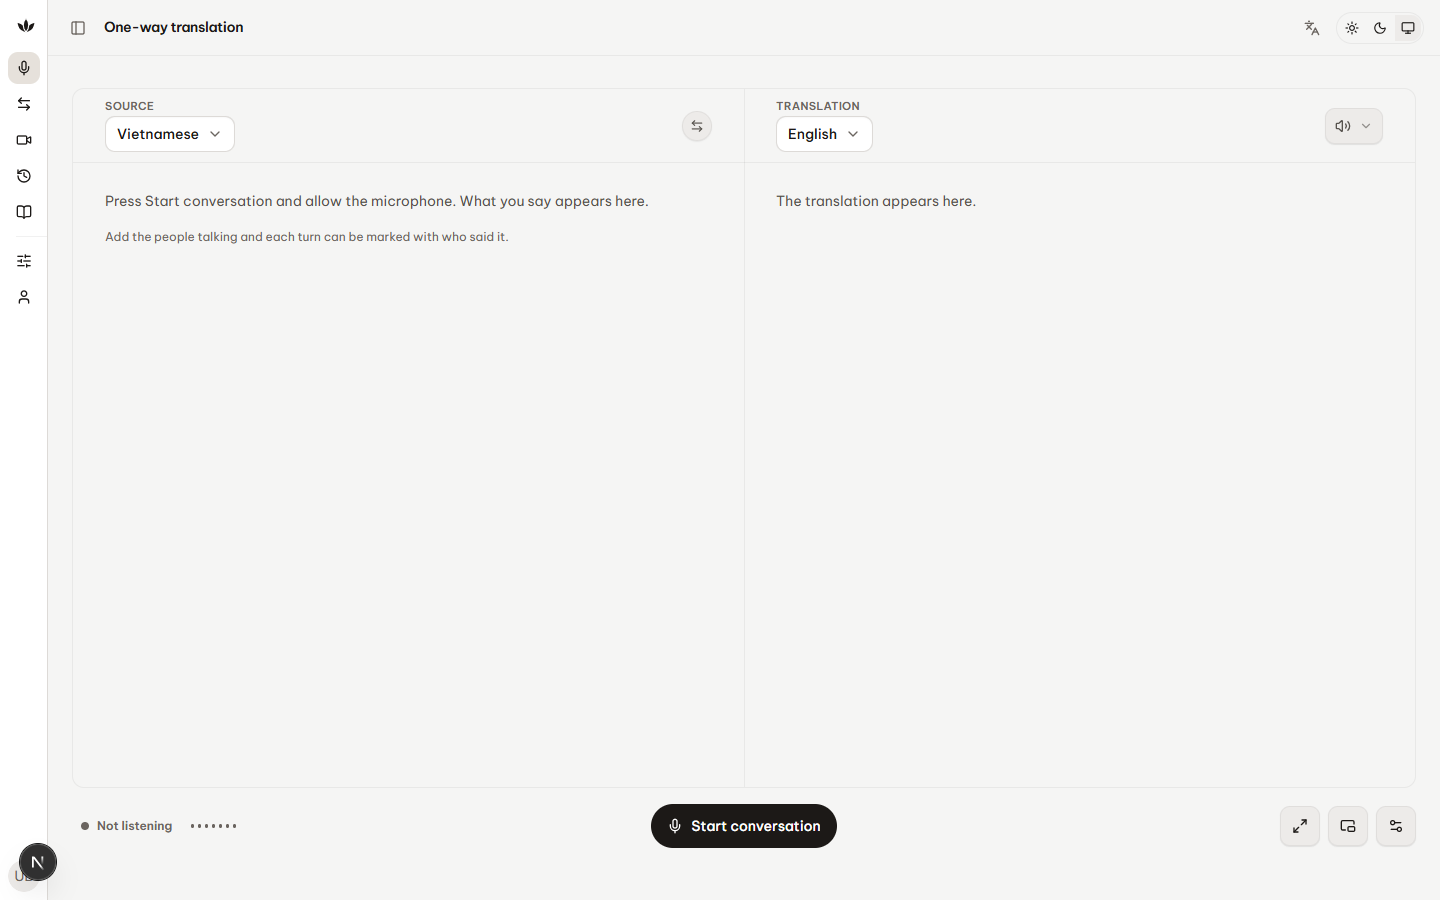
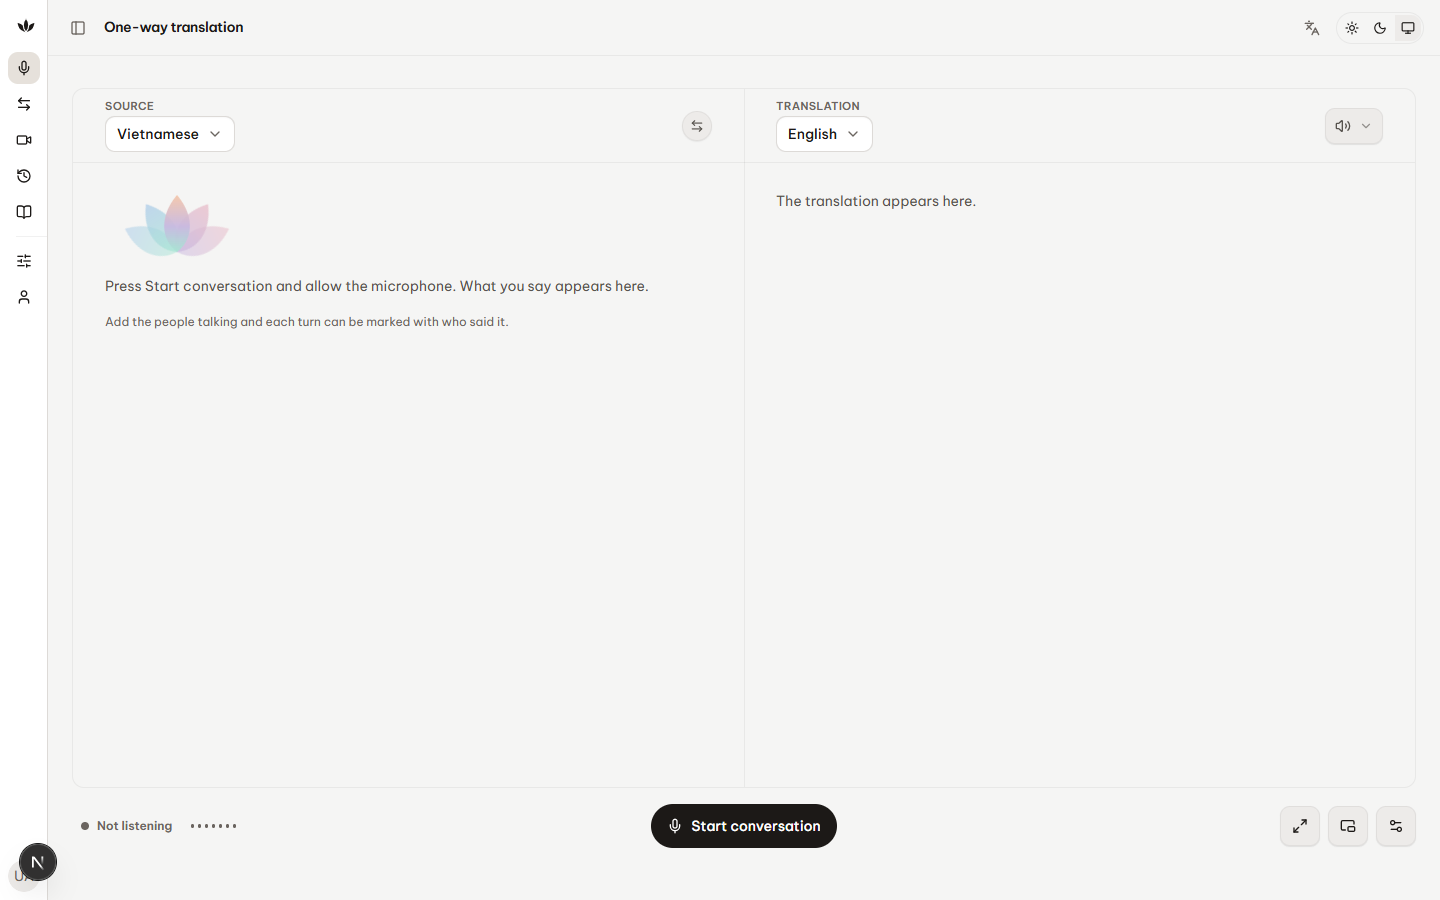
feat(web): open the lotus above the first step on the translate screen
The landing illustration, above the empty source pane's first-step
sentence, hidden below sm where the stacked panes are too short.
The Dawn rule and the state inventory are updated to match.

Changed region(s): [[0.0625, 0.3111, 0.4375, 0.3733], [0.0625, 0.2178, 0.4375, 0.28]]

diff --git a/apps/web/src/components/translate/conversation-transcript.spec.tsx b/apps/web/src/components/translate/conversation-transcript.spec.tsx
@@ -273,6 +273,28 @@ describe('ConversationTranscript as one side of a split', () => {
     expect(dimmed, 'the live translation line is dimmed').toEqual([]);
   });
 
+  it('draws the lotus above the first step, on the source pane only', () => {
+    // The one brand moment inside the app: the landing illustration, opening once, above
+    // the sentence and never behind it (a dawn value is 1.3-1.7:1 on stone, so it can
+    // never be what text is read against). Decorative, so hidden from assistive tech.
+    render({ turns: [], liveTurns: [], side: 'source', running: false });
+    const lotus = container.querySelector('[data-slot="lotus-illustration"]');
+    expect(lotus).not.toBeNull();
+    expect(lotus?.getAttribute('aria-hidden')).toBe('true');
+    // Hidden below `sm`, where the panes stack and each is too short to hold it: the pane
+    // scrolls to its newest content and the top of the lotus was cut off at 375px.
+    expect(lotus?.getAttribute('class')).toContain('max-sm:hidden');
+    const sentence = [...container.querySelectorAll('p')].find((p) =>
+      p.textContent?.includes('Start conversation'),
+    );
+    expect(sentence?.contains(lotus as Node)).toBe(false);
+
+    act(() => root.unmount());
+    root = createRoot(container);
+    render({ turns: [], liveTurns: [], side: 'target', running: false });
+    expect(container.querySelector('[data-slot="lotus-illustration"]')).toBeNull();
+  });
+
   it('tells a first-time user the first step on the source pane', () => {
     // The empty pane is the first thing a new user meets after sign-in. It names the
     // one control to press and the permission they will be asked for, instead of

diff --git a/apps/web/src/components/translate/conversation-transcript.tsx b/apps/web/src/components/translate/conversation-transcript.tsx
@@ -30,6 +30,7 @@ import { SpeakerLabel } from '@/components/translate/speaker-label';
 import { TranscriptSourceLine } from '@/components/translate/transcript-source-line';
 import { TurnLanguage } from '@/components/translate/turn-language-tag';
 import { MorphingText } from '@/components/translate/morphing-text';
+import { LotusIllustration } from '@/components/marketing/lotus-illustration';
 import { flipFromLiveLine } from '@/components/translate/flip-from-live-line';
 import {
   LiveLineHandoffContext,
@@ -273,6 +274,15 @@ export function ConversationTranscript({
           // explanation, and in `split` the two are separated by a gap or by half
           // the screen.
           <div className="flex flex-col gap-4 px-8 py-7">
+            {/* The brand's one moment inside the app: the landing's lotus, opening once, above
+                the first step. Above and never behind the sentence — a dawn value is 1.3-1.7:1
+                on stone, so it is never what text is read against. Source pane only: the
+                target pane says its own sentence and stays plain. */}
+            {side !== 'target' ? (
+              <LotusIllustration
+                className={cn('w-36 max-sm:hidden', side === 'both' && 'mx-auto')}
+              />
+            ) : null}
             <p className={cn('text-prose text-body', side === 'both' && 'text-center')}>
               {side === 'source'
                 ? t('web.translate.panelSourceEmpty')

diff --git a/docs/design-guidelines.md b/docs/design-guidelines.md
@@ -108,7 +108,9 @@ Two consequences follow from an accent that is the colour of text:
 | `mint`     | `#A7E5D3` |
 
 `dawn` in `tokens.ts`. **Decorative only**: the lotus mark's centre petal, the landing
-illustration, the surfaces tiles' band. They measure 1.44, 1.69 and 1.30:1 on stone, so
+illustration, the surfaces tiles' band, and the same illustration above the first step in
+the translate screen's empty source pane (above the sentence, never behind it; hidden below
+`sm`, where the stacked panes are too short to hold it). They measure 1.44, 1.69 and 1.30:1 on stone, so
 a dawn value is **never behind text, never on a control, and never carries a state**.
 It is not a palette key, and the contrast table never sees it. The illustration's two
 extra stops, sky `#A8C8E8` and rose `#E8B8C4`, are local to the lotus mark data and the
@@ -878,6 +880,7 @@ dictionary, which is the argument for keeping that number at zero.
 | conference lobby on a phone                            | `app/(app)/conference/[roomId]/components/pre-join-panel.tsx:76` — tighter padding and gap below `lg` so Join now is on the first screen                                                                      |
 | `/glossary` list failed to load                        | `glossary/glossary-list-panel.tsx:68` — `role="alert"` plus Try again, wired to `use-glossaries.ts:88` `retry`                                                                                                |
 | `/glossary` list empty                                 | `glossary/glossary-list-panel.tsx:79` — icon, bold title, one sentence, the same shape as History                                                                                                             |
+| `/translate` empty source pane, brand moment           | `translate/conversation-transcript.tsx:282` — the landing lotus above the first-step sentence, `max-sm:hidden`; source pane only, gone once a turn exists; guarded by `conversation-transcript.spec.tsx`      |
 | any route, error boundary                              | `app/(app)/error.tsx`, `app/(auth)/error.tsx`, `app/(marketing)/error.tsx`                                                                                                                                    |
 | any address that is not a route                        | `app/not-found.tsx`                                                                                                                                                                                           |
 
